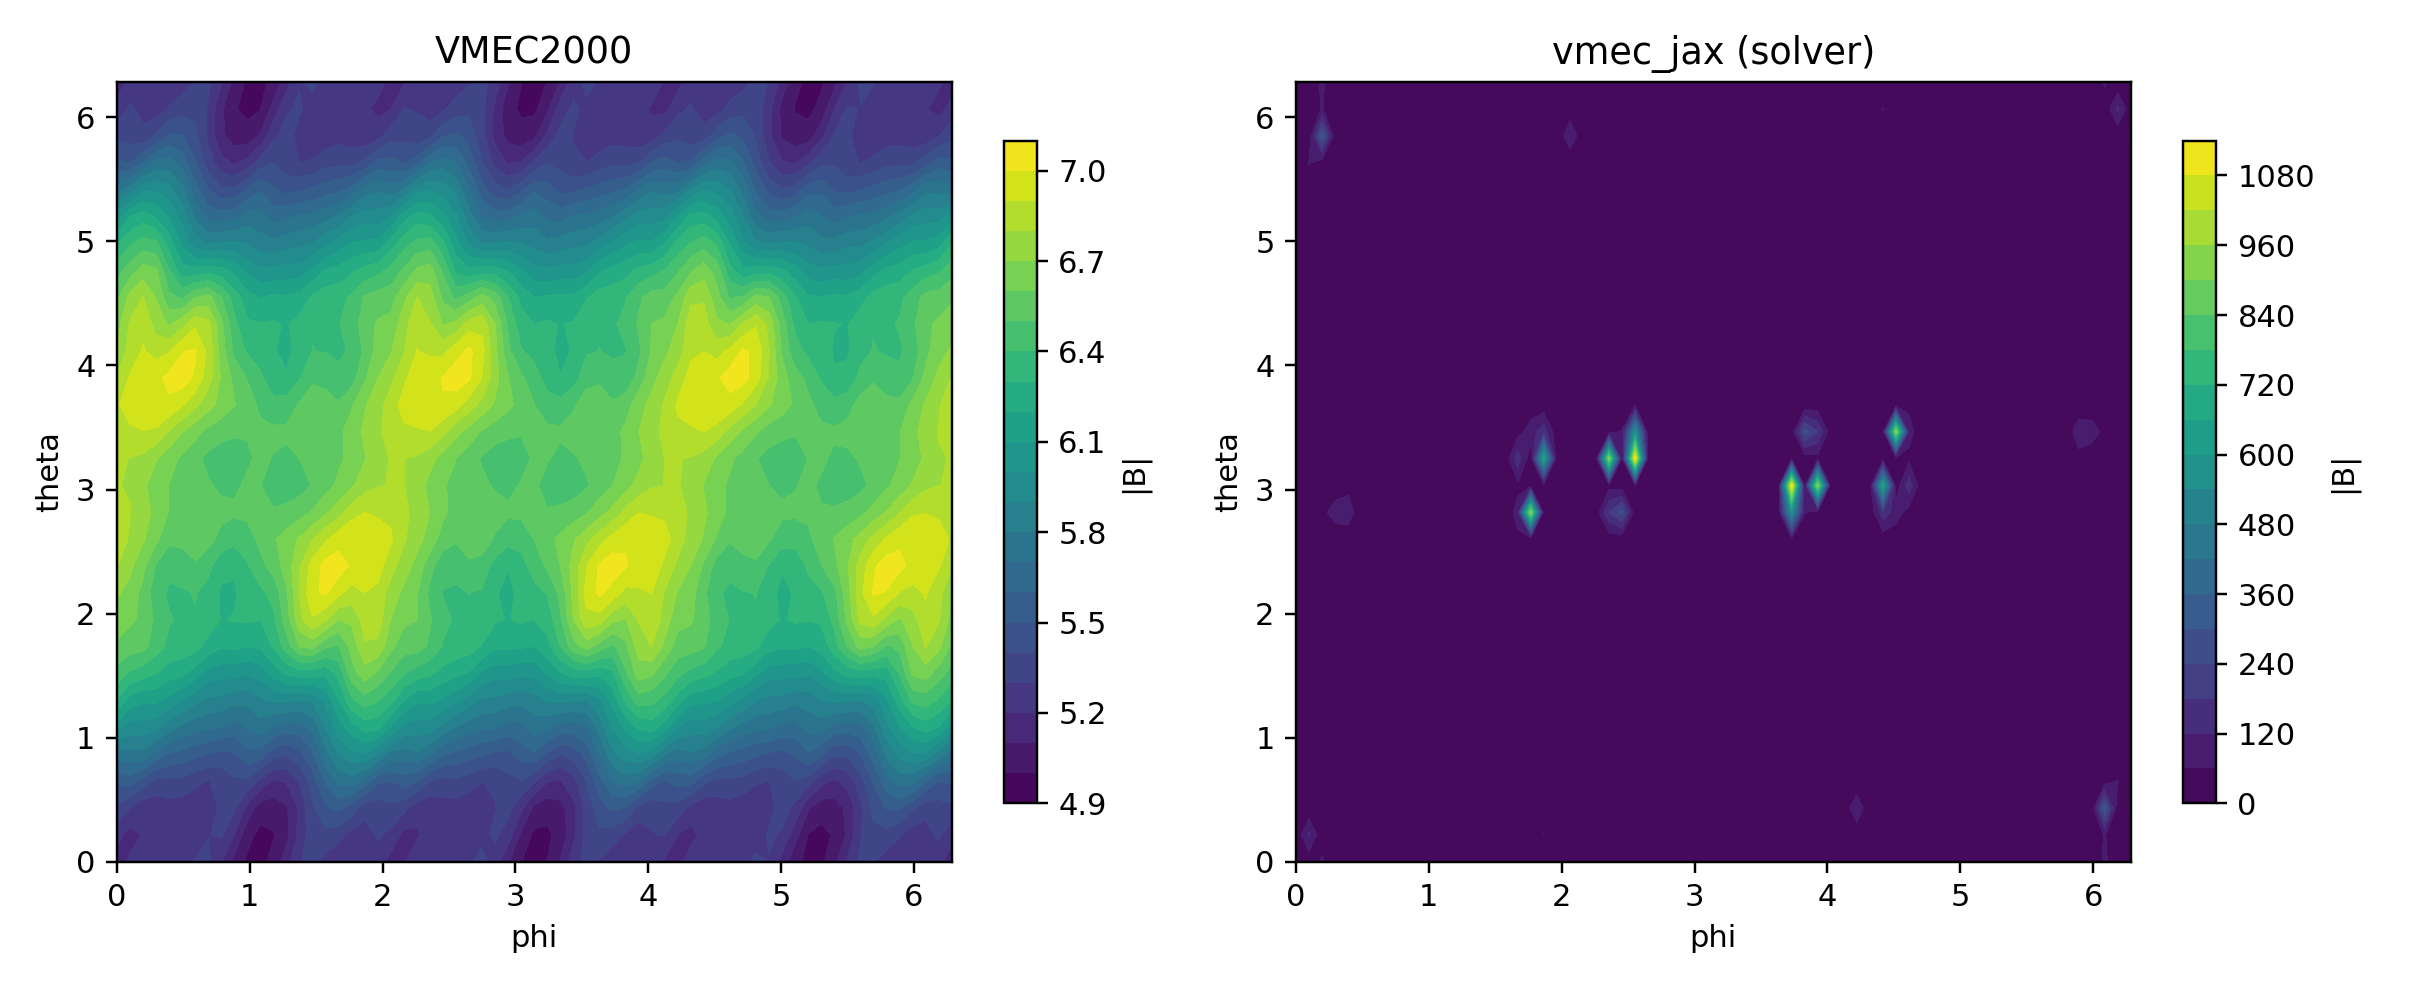
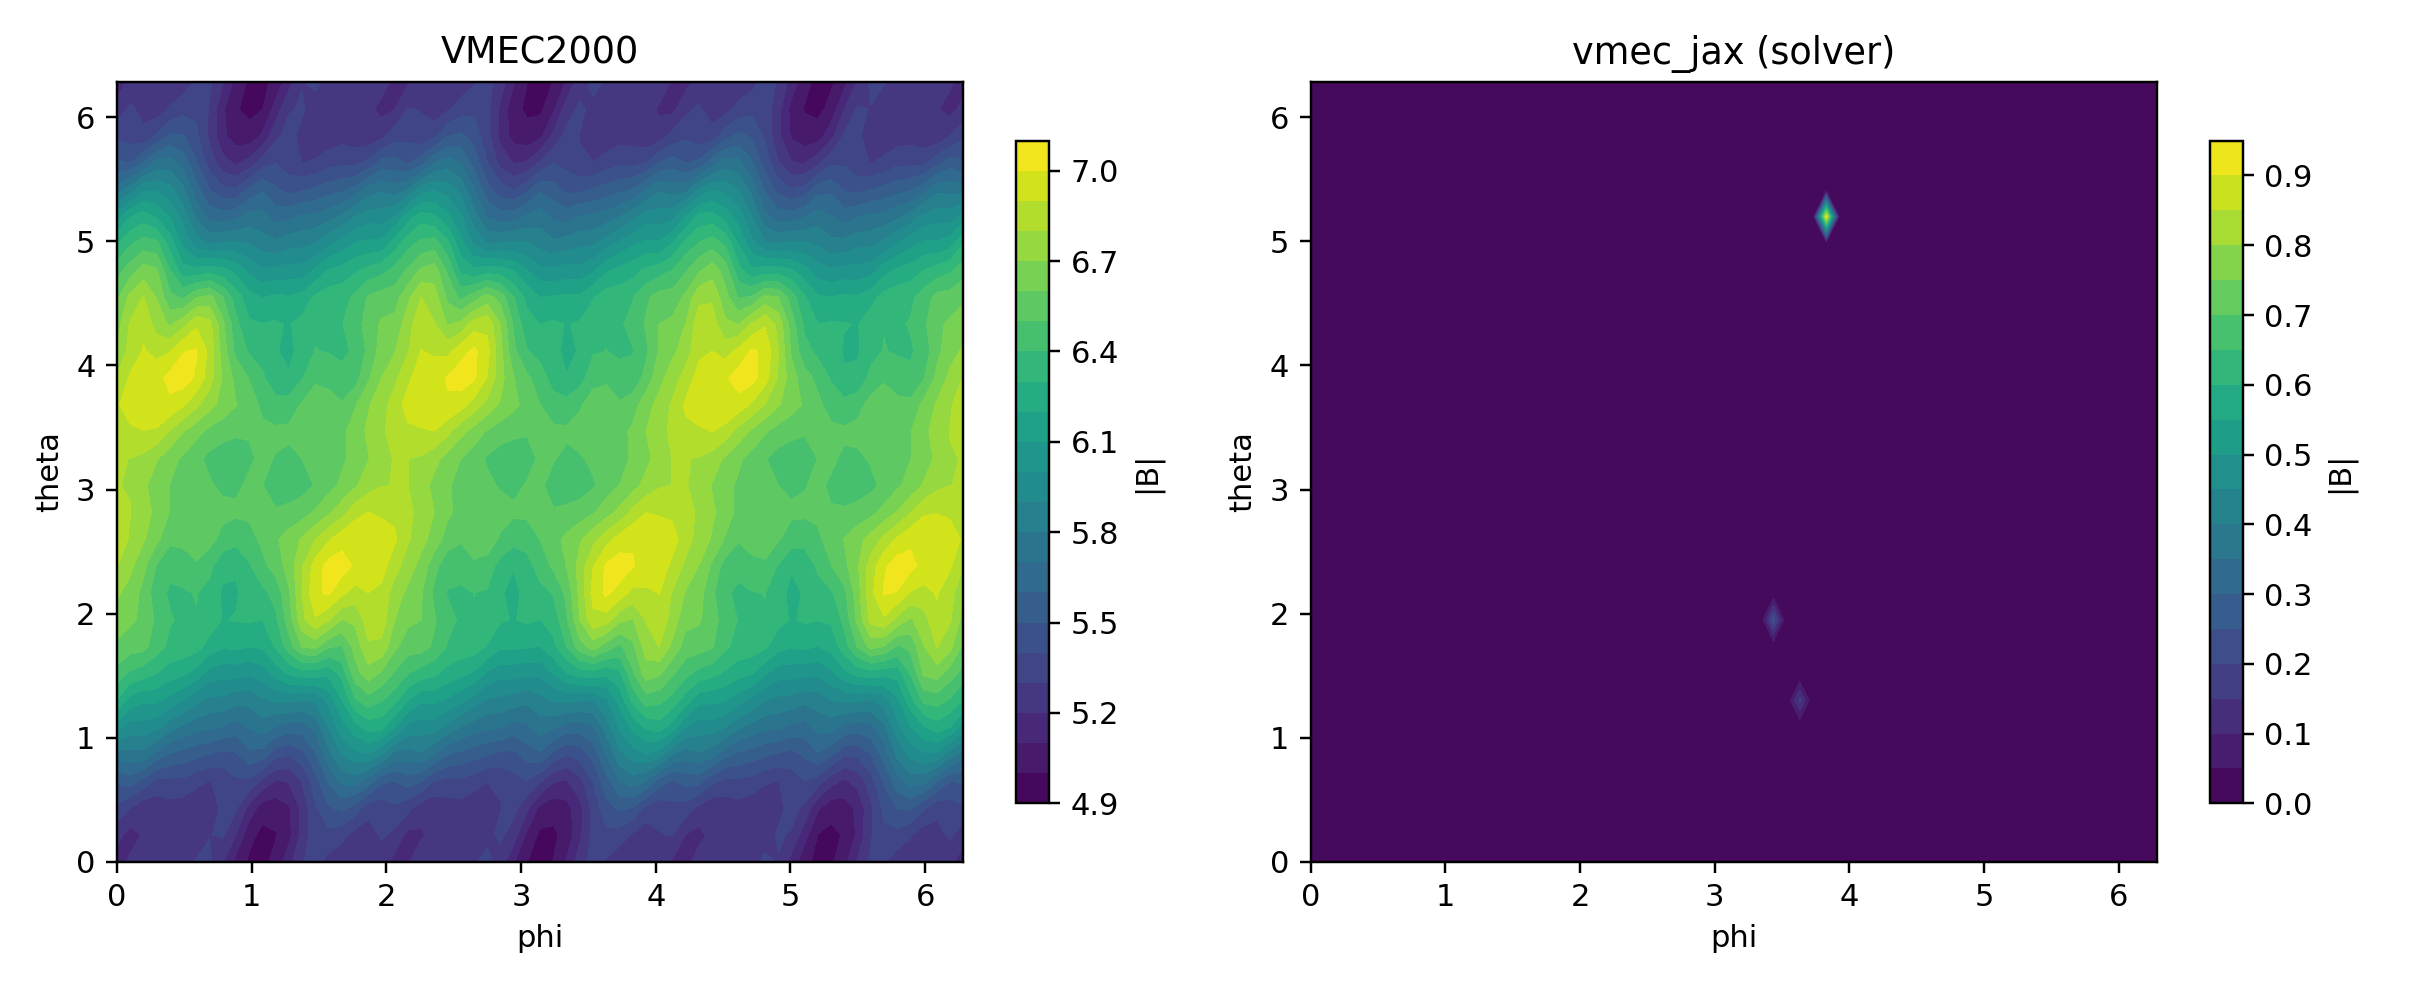
Improve VMEC-grid diagnostics and GD line search

diff --git a/vmec_jax/solve.py b/vmec_jax/solve.py
@@ -373,7 +373,7 @@ def solve_lambda_gd(
     max_iter: int = 50,
     step_size: float = 0.05,
     grad_tol: float = 1e-10,
-    max_backtracks: int = 12,
+    max_backtracks: int = 16,
     bt_factor: float = 0.5,
     jit_grad: bool = False,
     preconditioner: str = "none",
@@ -561,7 +561,7 @@ def solve_fixed_boundary_gd(
     scale_rz: float = 1.0,
     scale_l: float = 1.0,
     grad_tol: float = 1e-10,
-    max_backtracks: int = 12,
+    max_backtracks: int = 16,
     bt_factor: float = 0.5,
     jit_grad: bool = False,
     preconditioner: str = "none",
@@ -678,17 +678,18 @@ def solve_fixed_boundary_gd(
     wb0 = float(np.asarray(wb0))
     wp0 = float(np.asarray(wp0))
     w0 = float(np.asarray(w0))
-
-    w_history = [w0]
     wb_history = [wb0]
     wp_history = [wp0]
     grad_rms_history = []
     step_history = []
 
     obj0, grad0 = obj_and_grad(state)
+    obj0 = float(np.asarray(obj0))
+    w_history = [obj0]
 
     for it in range(max_iter):
         grad0m = _mask_grad_for_constraints(grad0, static, idx00=idx00)
+        grad_raw = grad0m
         grad0m = _apply_preconditioner(
             grad0m,
             static,
@@ -708,25 +709,32 @@ def solve_fixed_boundary_gd(
         step = float(step_size)
         accepted = False
 
-        for bt in range(max_backtracks + 1):
-            if bt > 0:
-                step *= bt_factor
-            trial = _update_state_gd(state, grad0m, step=step, scale_rz=scale_rz, scale_l=scale_l)
-            trial = _enforce_fixed_boundary_and_axis(
-                trial,
-                static,
-                edge_Rcos=edge_Rcos,
-                edge_Rsin=edge_Rsin,
-                edge_Zcos=edge_Zcos,
-                edge_Zsin=edge_Zsin,
-                idx00=idx00,
-            )
-            _wb_t, _wp_t, w_t = w_terms(trial)
-            w_t = float(np.asarray(w_t))
-            if np.isfinite(w_t) and w_t < w_history[-1]:
-                state = trial
-                accepted = True
-                break
+        def _try_line_search(grad_step):
+            step_local = float(step_size)
+            for bt in range(max_backtracks + 1):
+                if bt > 0:
+                    step_local *= bt_factor
+                trial = _update_state_gd(state, grad_step, step=step_local, scale_rz=scale_rz, scale_l=scale_l)
+                trial = _enforce_fixed_boundary_and_axis(
+                    trial,
+                    static,
+                    edge_Rcos=edge_Rcos,
+                    edge_Rsin=edge_Rsin,
+                    edge_Zcos=edge_Zcos,
+                    edge_Zsin=edge_Zsin,
+                    idx00=idx00,
+                )
+                obj_t = _objective(trial)
+                obj_t = float(np.asarray(obj_t))
+                if np.isfinite(obj_t) and obj_t < w_history[-1]:
+                    return True, trial, obj_t, step_local
+            return False, None, None, step_local
+
+        accepted, trial, obj_t, step = _try_line_search(grad0m)
+        if not accepted and preconditioner != "none":
+            accepted, trial, obj_t, step = _try_line_search(grad_raw)
+            if accepted and verbose:
+                print("[solve_fixed_boundary_gd] fallback to unpreconditioned gradient")
 
         step_history.append(step)
 
@@ -735,8 +743,11 @@ def solve_fixed_boundary_gd(
                 print("[solve_fixed_boundary_gd] line search failed to improve objective; stopping")
             break
 
-        wb_t, wp_t, w_t = w_terms(state)
-        w_history.append(float(np.asarray(w_t)))
+        state = trial
+        obj0 = obj_t
+
+        wb_t, wp_t, _w_t = w_terms(state)
+        w_history.append(obj0)
         wb_history.append(float(np.asarray(wb_t)))
         wp_history.append(float(np.asarray(wp_t)))
 
@@ -1196,6 +1207,8 @@ def solve_fixed_boundary_lbfgs_vmec_residual(
             wout=wout_like,
             indata=None,
             constraint_tcon0=constraint_tcon0,
+            use_vmec_synthesis=True,
+            trig=trig,
         )
         rzl = vmec_residual_internal_from_kernels(
             k,
@@ -1249,8 +1262,10 @@ def solve_fixed_boundary_lbfgs_vmec_residual(
     fsqr2_0, fsqz2_0, fsql2_0, w0, jacmin0 = w_terms(state)
     w0 = float(np.asarray(w0))
     jacmin0 = float(np.asarray(jacmin0))
-    if not np.isfinite(w0) or jacmin0 <= 0.0:
-        raise ValueError("Initial state has invalid Jacobian sign or non-finite residual objective")
+    if not np.isfinite(w0):
+        raise ValueError("Initial state has non-finite residual objective")
+    if jacmin0 <= 0.0 and verbose:
+        print("[solve_fixed_boundary_lbfgs_vmec_residual] warning: initial Jacobian has non-positive entries")
 
     if objective_scale_f is None:
         # Auto-scale the objective to be O(1) on the initial iterate.
@@ -1263,6 +1278,8 @@ def solve_fixed_boundary_lbfgs_vmec_residual(
                 wout=wout_like,
                 indata=None,
                 constraint_tcon0=constraint_tcon0,
+                use_vmec_synthesis=True,
+                trig=trig,
             )
             rzl = vmec_residual_internal_from_kernels(
                 k,
@@ -1380,6 +1397,12 @@ def solve_fixed_boundary_lbfgs_vmec_residual(
 
         accepted = False
         step = step0
+        best_w = np.inf
+        best_state = None
+        best_step = None
+        best_fsqr2 = None
+        best_fsqz2 = None
+        best_fsql2 = None
 
         x_old = x
         g_old = g_flat
@@ -1402,6 +1425,13 @@ def solve_fixed_boundary_lbfgs_vmec_residual(
             fsqr2_t, fsqz2_t, fsql2_t, w_t, jacmin_t = w_terms(st_try)
             w_tf = float(np.asarray(w_t))
             jacmin_tf = float(np.asarray(jacmin_t))
+            if np.isfinite(w_tf) and w_tf < best_w:
+                best_w = w_tf
+                best_state = st_try
+                best_step = step
+                best_fsqr2 = float(np.asarray(fsqr2_t))
+                best_fsqz2 = float(np.asarray(fsqz2_t))
+                best_fsql2 = float(np.asarray(fsql2_t))
             if np.isfinite(w_tf) and jacmin_tf > 0.0 and w_tf < w_history[-1]:
                 state = st_try
                 x = pack_state(state)
@@ -1414,9 +1444,23 @@ def solve_fixed_boundary_lbfgs_vmec_residual(
         step_history.append(step)
 
         if not accepted:
-            if verbose:
-                print("[solve_fixed_boundary_lbfgs_vmec_residual] line search failed; stopping")
-            break
+            if best_state is not None and np.isfinite(best_w):
+                if verbose:
+                    print(
+                        "[solve_fixed_boundary_lbfgs_vmec_residual] line search failed; "
+                        "accepting best finite step"
+                    )
+                state = best_state
+                x = pack_state(state)
+                w_t = best_w
+                fsqr2_accept = best_fsqr2 if best_fsqr2 is not None else float(np.asarray(fsqr2_t))
+                fsqz2_accept = best_fsqz2 if best_fsqz2 is not None else float(np.asarray(fsqz2_t))
+                fsql2_accept = best_fsql2 if best_fsql2 is not None else float(np.asarray(fsql2_t))
+                step_history[-1] = best_step
+            else:
+                if verbose:
+                    print("[solve_fixed_boundary_lbfgs_vmec_residual] line search failed; stopping")
+                break
 
         w_history.append(float(np.asarray(w_t)))
         fsqr2_history.append(fsqr2_accept)
@@ -1614,6 +1658,8 @@ def solve_fixed_boundary_gn_vmec_residual(
             wout=wout_like,
             indata=None,
             constraint_tcon0=constraint_tcon0,
+            use_vmec_synthesis=True,
+            trig=trig,
         )
         rzl = vmec_residual_internal_from_kernels(
             k,

diff --git a/vmec_jax/init_guess.py b/vmec_jax/init_guess.py
@@ -188,6 +188,39 @@ def _undo_m1_constraint_for_recompute(static: VMECStatic, boundary: BoundaryCoef
     return BoundaryCoeffs(R_cos=R_cos, R_sin=R_sin, Z_cos=Z_cos, Z_sin=Z_sin)
 
 
+def _blend_axis_m0(
+    *,
+    static: VMECStatic,
+    s,
+    Rcos,
+    Zsin,
+    Rcos_b,
+    Zsin_b,
+    raxis_cc,
+    zaxis_cs,
+):
+    """Blend m=0 modes between axis and boundary (VMEC convention)."""
+    m0_mask = static.modes.m == 0
+    for n in range(static.cfg.ntor + 1):
+        k_candidates = jnp.where(m0_mask & (static.modes.n == n))[0]
+        if k_candidates.size == 0:
+            continue
+        k = int(k_candidates[0])
+        blend = s
+        new_R = (1.0 - blend) * raxis_cc[n] + blend * Rcos_b[0, k]
+        # Z uses sin(-n zeta) for m=0, so Zsin coefficients are -zaxis_cs.
+        new_Z = (1.0 - blend) * (-zaxis_cs[n]) + blend * Zsin_b[0, k]
+        if has_jax():
+            Rcos = Rcos.at[:, k].set(new_R)
+            Zsin = Zsin.at[:, k].set(new_Z)
+        else:
+            Rcos = jnp.array(Rcos)
+            Zsin = jnp.array(Zsin)
+            Rcos[:, k] = new_R
+            Zsin[:, k] = new_Z
+    return Rcos, Zsin
+
+
 def _recompute_axis_from_boundary(
     static: VMECStatic,
     boundary: BoundaryCoeffs,
@@ -476,6 +509,7 @@ def initial_guess_from_boundary(
             have_axis = True
         if zaxis_cs is not None and np.any(np.asarray(zaxis_cs) != 0.0):
             have_axis = True
+        axis_from_indata = bool(have_axis)
 
         if not have_axis:
             raxis_cc, zaxis_cs = _guess_axis_from_boundary(static, boundary_use)
@@ -496,25 +530,40 @@ def initial_guess_from_boundary(
             if zaxis_cs is None:
                 zaxis_cs = jnp.zeros((cfg.ntor + 1,), dtype=dtype)
 
-            # Blend only m=0 modes; we support all n>=0 entries in the mode table.
-            m0_mask = static.modes.m == 0
-            for n in range(cfg.ntor + 1):
-                k_candidates = jnp.where(m0_mask & (static.modes.n == n))[0]
-                if k_candidates.size == 0:
-                    continue
-                k = int(k_candidates[0])
-                blend = s
-                new_R = (1.0 - blend) * raxis_cc[n] + blend * Rcos_b[0, k]
-                # Z uses sin(-n zeta) for m=0, so Zsin coefficients are -zaxis_cs.
-                new_Z = (1.0 - blend) * (-zaxis_cs[n]) + blend * Zsin_b[0, k]
-                if has_jax():
-                    Rcos = Rcos.at[:, k].set(new_R)
-                    Zsin = Zsin.at[:, k].set(new_Z)
-                else:
-                    Rcos = jnp.array(Rcos)
-                    Zsin = jnp.array(Zsin)
-                    Rcos[:, k] = new_R
-                    Zsin[:, k] = new_Z
+            Rcos, Zsin = _blend_axis_m0(
+                static=static,
+                s=s,
+                Rcos=Rcos,
+                Zsin=Zsin,
+                Rcos_b=Rcos_b,
+                Zsin_b=Zsin_b,
+                raxis_cc=raxis_cc,
+                zaxis_cs=zaxis_cs,
+            )
+
+            # If the user explicitly requests it, re-run the VMEC++ axis recompute
+            # even when axis coefficients are supplied in the input.
+            if axis_from_indata and bool(indata.get_bool("LRECOMPUTE", False)):
+                signgs_guess = 1 if np.median(areas) >= 0.0 else -1
+                new_raxis_cc, new_zaxis_cs = _recompute_axis_from_boundary(
+                    static,
+                    boundary_use,
+                    raxis_cc=np.asarray(raxis_cc),
+                    zaxis_cs=np.asarray(zaxis_cs),
+                    signgs=signgs_guess,
+                )
+                raxis_cc = jnp.asarray(new_raxis_cc, dtype=dtype)
+                zaxis_cs = jnp.asarray(new_zaxis_cs, dtype=dtype)
+                Rcos, Zsin = _blend_axis_m0(
+                    static=static,
+                    s=s,
+                    Rcos=Rcos,
+                    Zsin=Zsin,
+                    Rcos_b=Rcos_b,
+                    Zsin_b=Zsin_b,
+                    raxis_cc=raxis_cc,
+                    zaxis_cs=zaxis_cs,
+                )
 
     if vmec_project:
         if cfg.lasym:

diff --git a/vmec_jax/vmec_forces.py b/vmec_jax/vmec_forces.py
@@ -309,6 +309,8 @@ def vmec_forces_rz_from_wout(
     indata=None,
     constraint_tcon0: float | None = None,
     use_wout_bsup: bool = False,
+    use_vmec_synthesis: bool = False,
+    trig: VmecTrigTables | None = None,
 ) -> VmecRZForceKernels:
     """Compute VMEC R/Z force kernels (armn/brmn/...) from a `wout` equilibrium.
 
@@ -323,7 +325,14 @@ def vmec_forces_rz_from_wout(
     ohs = jnp.asarray(1.0 / (s[1] - s[0])) if s.shape[0] >= 2 else jnp.asarray(0.0)
     dshalfds = jnp.asarray(0.25, dtype=s.dtype)
 
-    bc = vmec_bcovar_half_mesh_from_wout(state=state, static=static, wout=wout, use_wout_bsup=use_wout_bsup)
+    bc = vmec_bcovar_half_mesh_from_wout(
+        state=state,
+        static=static,
+        wout=wout,
+        use_wout_bsup=use_wout_bsup,
+        use_vmec_synthesis=use_vmec_synthesis,
+        trig=trig,
+    )
 
     # Real-space parity fields for R/Z and angular derivatives.
     parity = split_rzl_even_odd_m(state, static.basis, static.modes.m)
@@ -481,6 +490,7 @@ def vmec_forces_rz_from_wout(
         pzu_0=pzu_0,
         pzu_1=pzu_1,
         constraint_tcon0=constraint_tcon0,
+        trig=trig,
     )
 
     brmn_e = brmn_e + con.rcon_force

diff --git a/examples/visualization/n3are_vmec2000_vs_vmecjax.py b/examples/visualization/n3are_vmec2000_vs_vmecjax.py
@@ -113,6 +113,7 @@ def main() -> None:
     p.add_argument("--outdir", type=str, default=str(REPO_ROOT / "docs/_static/figures"))
     p.add_argument("--max-iter", type=int, default=20)
     p.add_argument("--step-size", type=float, default=1e-5)
+    p.add_argument("--solver", type=str, default="gd", help="gd, lbfgs, vmec_lbfgs, or vmec_gn")
     p.add_argument("--solve", action="store_true", help="Run the vmec_jax fixed-boundary solver (slower).")
     p.add_argument("--no-solve", action="store_true", help="Use the initial guess only (fast).")
     args = p.parse_args()
@@ -128,7 +129,7 @@ def main() -> None:
 
     run = run_fixed_boundary(
         Path(args.input),
-        solver="gd",
+        solver=str(args.solver),
         max_iter=int(args.max_iter),
         step_size=float(args.step_size),
         use_initial_guess=use_initial_guess,
@@ -198,6 +199,7 @@ def main() -> None:
         phipf=np.asarray(wout.phipf),
         chipf=np.asarray(wout.chipf),
         lamscale=float(np.asarray(run.flux.lamscale)),
+        sqrtg_floor=sqrtg_floor,
     )
     print(
         f"[vmec_jax] B range (vmec_jax VMEC-grid) min={B_jax_vmec.min():.3e} max={B_jax_vmec.max():.3e}"

diff --git a/vmec_jax/plotting.py b/vmec_jax/plotting.py
@@ -254,6 +254,7 @@ def bmag_from_state_vmec_realspace(
     phipf: np.ndarray | None = None,
     chipf: np.ndarray | None = None,
     lamscale: float | None = None,
+    sqrtg_floor: float | None = None,
 ) -> np.ndarray:
     """Compute |B| using VMEC real-space synthesis + half-mesh Jacobian."""
     nfp = int(static.cfg.nfp)
@@ -292,6 +293,8 @@ def bmag_from_state_vmec_realspace(
         s=np.asarray(static.s),
     )
     sqrtg = np.asarray(jac.sqrtg)
+    if sqrtg_floor is not None:
+        sqrtg = np.sign(sqrtg) * np.maximum(np.abs(sqrtg), float(sqrtg_floor))
     lam_u = np.asarray(geom["Lu"]) if geom["Lu"] is not None else np.zeros_like(sqrtg)
     lam_v = np.asarray(geom["Lv"]) if geom["Lv"] is not None else np.zeros_like(sqrtg)
 

diff --git a/vmec_jax/driver.py b/vmec_jax/driver.py
@@ -139,6 +139,15 @@ def run_fixed_boundary(
         If True (default), print VMEC-style iteration progress and a summary.
     """
     cfg, indata = load_config(str(input_path))
+    if grid is None and str(solver).lower() in ("vmec_lbfgs", "vmec_gn"):
+        from .vmec_tomnsp import vmec_angle_grid
+
+        grid = vmec_angle_grid(
+            ntheta=int(cfg.ntheta),
+            nzeta=int(cfg.nzeta),
+            nfp=int(cfg.nfp),
+            lasym=bool(cfg.lasym),
+        )
     static = build_static(cfg, grid=grid)
     bdy = boundary_from_indata(indata, static.modes)
     st0 = initial_guess_from_boundary(static, bdy, indata, vmec_project=vmec_project)
